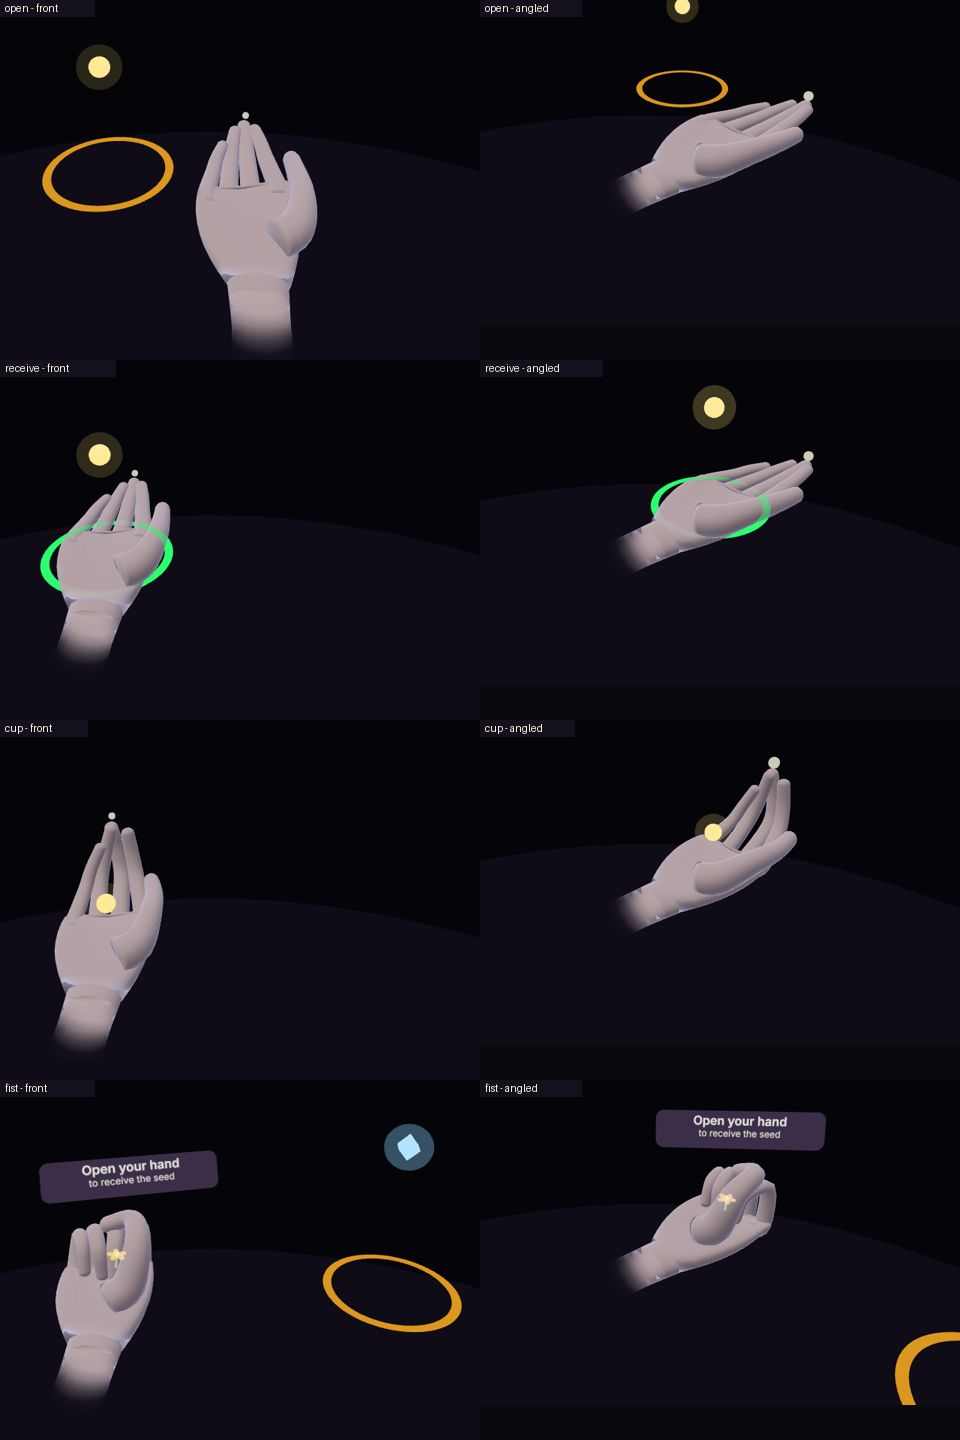
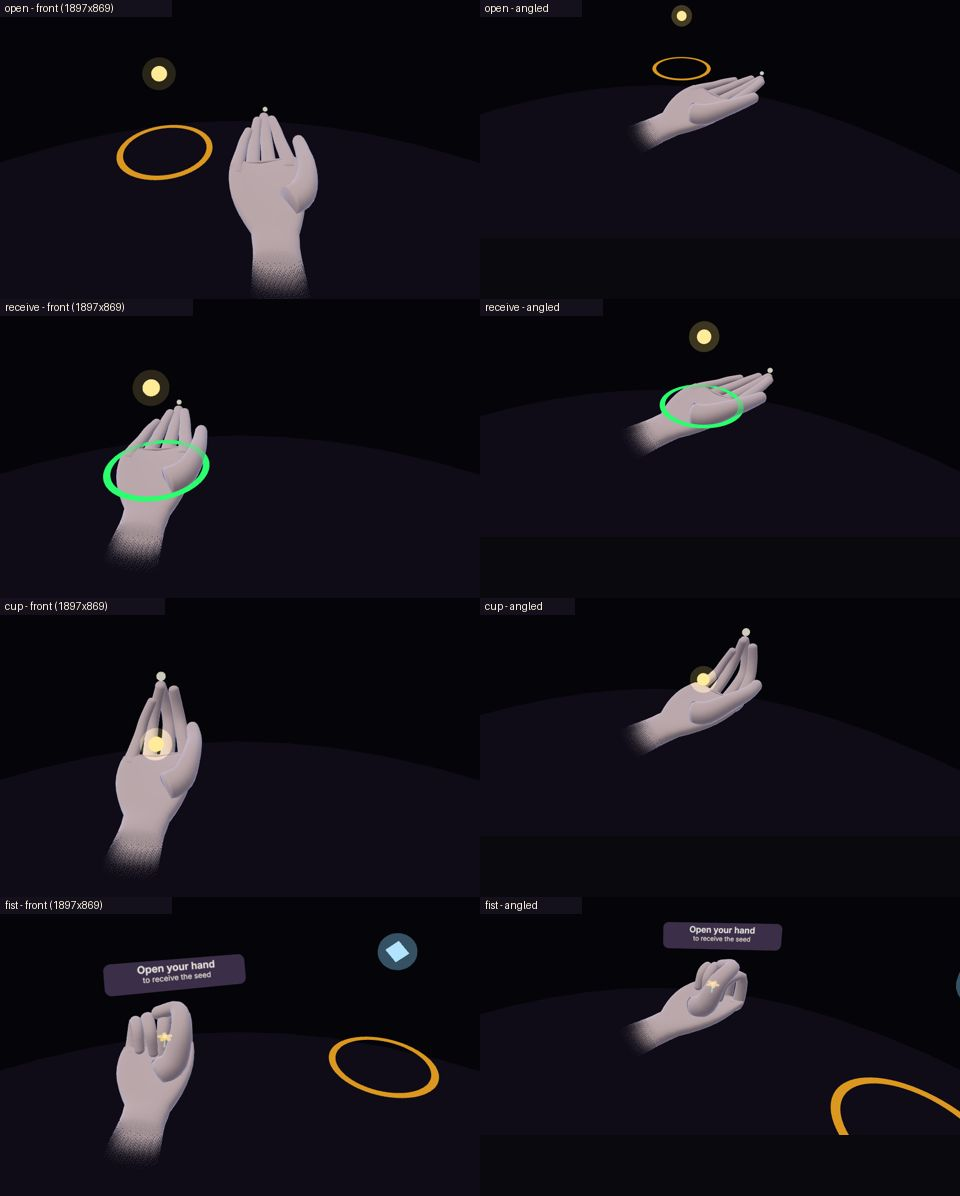
Laptop hand: hide IWSDK's occluder hand, opaque one-piece mesh, panel on screen
Real-browser review showed a black palm, detached fingertips and a floating
wrist cuff. Cause: IWSDK's own hand visual (white outline + invisible
depth-writing occluder hand, loaded from the WebXR input-profiles CDN) drew
over the emulated hand and hid the laptop hand behind it. Sandboxed test
runs could not reach that CDN, so headless screenshots never showed it.

Laptop emulator (?emulate) only; Quest rendering and gameplay unchanged.
- Hide IWSDK's hand visual every frame in laptop mode (IWSDK re-shows it in
  its input update, which runs first); &iwsdkhand=1 keeps it to compare.
- Hand mesh is now opaque, one pass, ordinary depth test: no depth pre-pass,
  no reliance on two shader programs giving identical depth.
- Wrist and forearm are the palm's own surface continued past the wrist (no
  separate tube); the forearm end fades out with a fine screen-door dither.
- Help panel: page never scrolls (game keys cancelled before any await,
  overflow hidden) and the panel follows a pinch-zoomed visual viewport.
- test/hand-poses.mjs: PROFILES_DIR serves the input-profile files locally
  so IWSDK's hand loads as in a real browser; checks it is hidden and the
  help panel is fully inside the window, with desktop-style scrollbars.

Claude-Session: https://claude.ai/code/session_01XtXJNmCxJUcRp479Zfa6aL

diff --git a/src/hand-silhouette.ts b/src/hand-silhouette.ts
@@ -6,16 +6,19 @@
 // Shape: procedural, rebuilt from the tracked joints every frame, so it can
 // never drift from the positions the game uses for catching.
 //   - each finger and the thumb is ONE smooth tapered tube through its joints
-//     (Catmull-Rom), with a rounded fingertip; no gaps between segments
-//   - the palm is a closed, rounded "pillow" spanning wrist to knuckles, with a
-//     shallow hollow on the palm side; the finger roots start inside it
-//   - the wrist is an elliptical tube that narrows and fades out
-// Rendering: one geometry, two draw calls. A depth-only pass, then a colour
-// pass that only draws the front-most surface (depthFunc LessEqual), so
-// overlapping parts never add up into brighter patches. Shading is a soft
-// view-relative key light plus a restrained cool edge light.
-// Positions come straight from the tracked joints; the display size only
-// changes thickness, so the hand stays aligned with the ring and seed.
+//     (Catmull-Rom), with a rounded fingertip; its root is capped and starts
+//     inside the palm, so no gaps or holes
+//   - the palm is a closed, rounded "pillow" with a shallow hollow on the palm
+//     side; the same surface carries on past the wrist into the forearm (no
+//     separate wrist piece), and the forearm end fades into the floor colour
+// Rendering: one opaque mesh, one draw call, ordinary depth test. (An earlier
+// depth pre-pass + translucent colour pass relied on two shader programs
+// giving identical depth, which not every GPU driver guarantees.) Shading is a
+// soft view-relative key light plus a restrained cool edge light.
+// IWSDK's own hand visual (white outline + an invisible depth "occluder" hand,
+// meant for passthrough) is hidden in laptop mode by the system: it hid this
+// mesh in real browsers. Positions come straight from the tracked joints; the
+// display size only changes thickness.
 
 import {
   BufferAttribute,
@@ -24,7 +27,6 @@ import {
   DoubleSide,
   GreaterDepth,
   Group,
-  LessEqualDepth,
   type Material,
   Mesh,
   MeshBasicMaterial,
@@ -49,7 +51,7 @@ const THUMB = { chain: [17, 18, 19, 20], r: [0.0145, 0.0112, 0.0094, 0.0084] };
 export const SKIN_COLOR = '#b9a6a8'; // muted warm grey-rose: reads on the dark room, lets seeds pop
 const SHADOW_COLOR = '#3f3446';
 const RIM_COLOR = '#b8c8ff';
-export const SILHOUETTE_OPACITY = 0.96;
+const FADE_TO = '#221e2b'; // the floor colour: the forearm fades toward it
 const DEBUG_OPACITY = 0.3; // &debug=1: see the skeleton through the hand
 
 // Tessellation (per hand ~1.4k vertices, ~2.6k triangles).
@@ -58,8 +60,11 @@ const PER_SEG = 4; // samples per joint-to-joint segment
 const CAP = 4; // rings in a fingertip cap
 const PALM_AROUND = 20; // around the palm cross-section
 const PALM_ROWS = 9; // wrist -> knuckles
-const WRIST_RINGS = 7;
-const WRIST_SIDES = 16;
+/** Rows of the same surface continued past the wrist into the forearm (no separate cuff). */
+const FOREARM_V = [-0.62, -0.5, -0.38, -0.27, -0.17, -0.08];
+const ROWS = FOREARM_V.length + PALM_ROWS;
+/** Where along the hand each row sits: <0 forearm, 0 wrist, 1 knuckles (x wrist-to-knuckle length). */
+const ROW_V = [...FOREARM_V, ...Array.from({ length: PALM_ROWS }, (_, r) => r / (PALM_ROWS - 1))];
 
 // Palm proportions (m).
 const PALM_FRONT = 0.0108; // palm-side half thickness (skin sits ~1 cm out, where the seed rests)
@@ -67,8 +72,8 @@ const PALM_BACK = 0.0092; // back-of-hand half thickness
 const PALM_HOLLOW = 0.0018; // shallow dip in the middle of the palm
 const KNUCKLE_EDGE = 0.45; // palm edge reaches this far past the outer knuckles (x knuckle spacing)
 const WRIST_HALF_W = 0.022; // half width of the wrist where it meets the palm
+const WRIST_T = 0.0118; // wrist / forearm half thickness
 
-/** Shared by the depth and colour passes so their depths match exactly. */
 const VERTEX = /* glsl */ `
   attribute float alpha;
   varying vec3 vN;
@@ -102,7 +107,6 @@ export class HandSilhouette {
   private colorMat: ShaderMaterial;
   private fingerTubes: Tube[] = [];
   private thumbTube!: Tube;
-  private wristTube!: Tube;
   private palmStart = 0;
   private palmCapStart = 0;
   // hand frame
@@ -154,13 +158,12 @@ export class HandSilhouette {
     const fingerRings = 4 * PER_SEG + 1 + CAP; // 1 lead-in segment + 3 bones
     for (let f = 0; f < FINGERS.length; f++) this.fingerTubes.push(tube(fingerRings, SIDES, true, true));
     this.thumbTube = tube(fingerRings, SIDES, true, true);
-    this.wristTube = tube(WRIST_RINGS, WRIST_SIDES, false);
     this.palmStart = v;
-    tube(PALM_ROWS, PALM_AROUND, false);
+    tube(ROWS, PALM_AROUND, false); // forearm + wrist + palm: one continuous surface
     // close both palm ends with fans
     this.palmCapStart = v;
     const p0 = this.palmStart;
-    const pl = this.palmStart + (PALM_ROWS - 1) * PALM_AROUND;
+    const pl = this.palmStart + (ROWS - 1) * PALM_AROUND;
     for (let s = 0; s < PALM_AROUND; s++) {
       index.push(p0 + ((s + 1) % PALM_AROUND), p0 + s, v);
       index.push(pl + s, pl + ((s + 1) % PALM_AROUND), v + 1);
@@ -169,12 +172,12 @@ export class HandSilhouette {
 
     this.pos = new Float32Array(v * 3);
     const alpha = new Float32Array(v).fill(1);
-    // wrist: opaque where it meets the palm, fading over its last part
-    for (let r = 0; r < WRIST_RINGS; r++) {
-      const k = r / (WRIST_RINGS - 1);
-      const a = k < 0.3 ? 1 : Math.max(0, 1 - (k - 0.3) / 0.6);
-      for (let s = 0; s < WRIST_SIDES; s++) alpha[this.wristTube.start + r * WRIST_SIDES + s] = a * a * (3 - 2 * a);
+    // forearm: full colour up to just below the wrist, then fading into the floor
+    for (let r = 0; r < ROWS; r++) {
+      const a = Math.min(1, Math.max(0, (ROW_V[r] + 0.62) / 0.4));
+      for (let q = 0; q < PALM_AROUND; q++) alpha[this.palmStart + r * PALM_AROUND + q] = a * a * (3 - 2 * a);
     }
+    alpha[this.palmCapStart] = 0; // forearm end cap
     this.geo.setAttribute('position', new BufferAttribute(this.pos, 3));
     this.nrmArr = new Float32Array(v * 3);
     this.idx = Uint32Array.from(index);
@@ -187,13 +190,15 @@ export class HandSilhouette {
         uBase: { value: new Color(SKIN_COLOR) },
         uShadow: { value: new Color(SHADOW_COLOR) },
         uRim: { value: new Color(RIM_COLOR) },
-        uOpacity: { value: debug ? DEBUG_OPACITY : SILHOUETTE_OPACITY },
+        uFadeTo: { value: new Color(FADE_TO) },
+        uOpacity: { value: debug ? DEBUG_OPACITY : 1 },
       },
       vertexShader: VERTEX,
       fragmentShader: /* glsl */ `
         uniform vec3 uBase;
         uniform vec3 uShadow;
         uniform vec3 uRim;
+        uniform vec3 uFadeTo;
         uniform float uOpacity;
         varying vec3 vN;
         varying vec3 vV;
@@ -211,35 +216,25 @@ export class HandSilhouette {
           // restrained edge light so the curves read against the dark room
           float fres = pow(1.0 - clamp(dot(n, v), 0.0, 1.0), 2.6);
           col += uRim * fres * 0.32;
-          gl_FragColor = vec4(col, uOpacity * vA);
+          // forearm end: a fine screen-door fade (the mesh stays opaque, so it
+          // never depends on draw order), softened toward the floor colour
+          if (uOpacity >= 1.0) {
+            float n = fract(52.9829189 * fract(dot(gl_FragCoord.xy, vec2(0.06711056, 0.00583715))));
+            if (vA < n * 0.98 + 0.01) discard;
+          }
+          col = mix(uFadeTo, col, vA);
+          gl_FragColor = vec4(col, uOpacity * (uOpacity >= 1.0 ? 1.0 : vA));
           #include <colorspace_fragment>
         }`,
-      transparent: true,
-      depthWrite: false,
-      depthFunc: LessEqualDepth,
-      side: DoubleSide,
-    });
-    // depth pre-pass: only the solid part of the hand (not the fading wrist end)
-    const depthMat = new ShaderMaterial({
-      vertexShader: VERTEX, // identical program text: both passes land on the same depth
-      fragmentShader: /* glsl */ `
-        varying vec3 vN;
-        varying vec3 vV;
-        varying float vA;
-        void main() { if (vA < 0.98) discard; gl_FragColor = vec4(0.0); }`,
-      colorWrite: false,
-      depthWrite: true,
+      // Opaque, one pass, ordinary depth test: nothing here depends on two
+      // shader programs producing bit-identical depth (which some GPU drivers
+      // do not guarantee). Debug only: faint and see-through.
+      transparent: debug,
+      depthWrite: !debug,
       side: DoubleSide,
     });
     const color = new Mesh(this.geo, this.colorMat);
-    color.renderOrder = 21;
     color.frustumCulled = false;
-    if (!debug) {
-      const depth = new Mesh(this.geo, depthMat);
-      depth.renderOrder = 20;
-      depth.frustumCulled = false;
-      this.group.add(depth);
-    }
     this.group.add(color);
   }
 
@@ -256,7 +251,6 @@ export class HandSilhouette {
     for (let f = 0; f < FINGERS.length; f++) this.finger(at, FINGERS[f].chain, FINGERS[f].r, k, this.fingerTubes[f], false);
     this.finger(at, THUMB.chain, THUMB.r, k, this.thumbTube, true);
     this.palm(at, kp);
-    this.wrist(at, kp);
     (this.geo.getAttribute('position') as BufferAttribute).needsUpdate = true;
     this.normals();
   }
@@ -413,9 +407,15 @@ export class HandSilhouette {
     row[0].copy(row[1]).sub(row[2]).multiplyScalar(KNUCKLE_EDGE).add(row[1]);
     row[5].copy(row[4]).sub(row[3]).multiplyScalar(KNUCKLE_EDGE).add(row[4]);
     const halfK = row[0].distanceTo(row[5]) / 2;
+    const palmLen = Math.hypot(km.x - w.x, km.y - w.y, km.z - w.z);
+    const env0 = Math.pow(Math.sin(Math.PI * 0.3), 0.45);
     let v = this.palmStart;
-    for (let r = 0; r < PALM_ROWS; r++) {
-      const vr = r / (PALM_ROWS - 1); // 0 wrist .. 1 knuckles
+    for (let r = 0; r < ROWS; r++) {
+      const vr = ROW_V[r]; // <0 forearm, 0 wrist .. 1 knuckles
+      if (vr < 0) {
+        v = this.forearmRow(v, w, vr, palmLen, kp, env0);
+        continue;
+      }
       // end rows are thinner so the pillow rounds off
       const env = Math.pow(Math.sin(Math.PI * (0.3 + 0.62 * vr)), 0.45);
       // width grows quickly from the wrist, widest a little below the knuckles
@@ -452,7 +452,7 @@ export class HandSilhouette {
     // end caps: the centre of the first and last rows
     for (const [r, cap] of [
       [0, this.palmCapStart],
-      [PALM_ROWS - 1, this.palmCapStart + 1],
+      [ROWS - 1, this.palmCapStart + 1],
     ] as const) {
       this.v.set(0, 0, 0);
       const base = this.palmStart + r * PALM_AROUND;
@@ -466,20 +466,31 @@ export class HandSilhouette {
     }
   }
 
-  /** Wrist: an oval tube starting inside the heel of the palm, narrowing, fading out. */
-  private wrist(at: (i: number) => Vec3, kp: number): void {
-    const w = at(0);
-    let v = this.wristTube.start;
-    this.bvec.copy(this.side);
-    this.uvec.copy(this.nrm);
-    for (let r = 0; r < WRIST_RINGS; r++) {
-      const k = r / (WRIST_RINGS - 1);
-      const back = -0.004 + k * 0.056; // from just inside the palm heel to 5 cm down the arm
-      this.v.set(w.x, w.y, w.z).addScaledVector(this.fwd, -back).addScaledVector(this.nrm, -0.002);
-      const rw = (WRIST_HALF_W - 0.0005 - 0.003 * Math.min(1, k * 1.6)) * (0.9 + 0.1 * kp); // narrows into the forearm
-      const rt = (0.0112 + 0.0016 * k) * kp;
-      v = this.ring(v, this.v, rw, rt, WRIST_SIDES);
+  /**
+   * Wrist and forearm: the palm's own surface carried on past the wrist joint
+   * (same cross-section loop), easing from the flat palm heel into a rounder,
+   * slightly narrower wrist, so palm and wrist are one shape with no seam.
+   */
+  private forearmRow(v: number, w: Vec3, vr: number, palmLen: number, kp: number, env0: number): number {
+    const s = Math.min(1, -vr / 0.2);
+    const blend = s * s * (3 - 2 * s); // 0 at the wrist joint, 1 a little way down the arm
+    const hw = WRIST_HALF_W * (1 - 0.07 * blend) + 0.0025 * Math.max(0, (-vr - 0.25) / 0.37);
+    const tf = PALM_FRONT * env0 * kp + (WRIST_T * kp - PALM_FRONT * env0 * kp) * blend;
+    const tb = PALM_BACK * env0 * kp + (WRIST_T * kp - PALM_BACK * env0 * kp) * blend;
+    const ex = 0.55 + 0.25 * blend; // flat palm heel -> rounder wrist
+    for (let q = 0; q < PALM_AROUND; q++) {
+      const ang = (q / PALM_AROUND) * Math.PI * 2;
+      const ca = Math.cos(ang);
+      const sa = Math.sin(ang);
+      const a = Math.sign(ca) * Math.pow(Math.abs(ca), ex);
+      const h = sa >= 0 ? tf * Math.pow(sa, 0.8) : -tb * Math.pow(-sa, 0.8);
+      this.v.set(w.x, w.y, w.z)
+        .addScaledVector(this.fwd, vr * palmLen - 0.002)
+        .addScaledVector(this.side, a * hw)
+        .addScaledVector(this.nrm, h);
+      this.put(v++, this.v);
     }
+    return v;
   }
 }
 

diff --git a/src/palmful-system.ts b/src/palmful-system.ts
@@ -99,6 +99,8 @@ interface HandTrack {
 }
 /** Laptop emulator only: draw a dark room into the XR view (never on a Quest). */
 const EMULATED_VIEW = PARAMS.has('emulate');
+/** Laptop diagnosis only: keep IWSDK's own hand outline/occluder visible (&iwsdkhand=1). */
+const KEEP_IWSDK_HAND = PARAMS.has('iwsdkhand');
 /** Cue colours, chosen to stay distinct on dark backgrounds and in passthrough. */
 const CUE = { ready: '#2bff6e', waiting: '#ffb020', miss: '#ff3b3b' };
 const FLASH_S = 1.5;
@@ -217,6 +219,8 @@ declare global {
       freeze: (on: boolean) => string;
       /** laptop view: is the hand silhouette drawn, and the bright bones? */
       silhouette: () => { silhouette: boolean; bones: boolean };
+      /** laptop view: IWSDK's own hand visual per side (loaded from the input-profiles CDN; hidden in laptop mode) */
+      iwsdkHands: () => Record<string, { loaded: boolean; visible: boolean; meshes: number; at: number[]; inScene: boolean }>;
       twoHands: () => {
         enabled: boolean;
         engaged: string | null;
@@ -449,6 +453,19 @@ export class PalmfulSystem extends createSystem({}) {
         if (EMULATED_VIEW) this.cueHold = on ? 'frozen' : 'off';
         return this.cueHold;
       },
+      iwsdkHands: () =>
+        Object.fromEntries(
+          SIDES.map((side) => {
+            const v = this.world.input.xr.visualAdapters.hand[side].visual;
+            let meshes = 0;
+            const at = new Vector3();
+            v?.model.traverse((o) => {
+              if ((o as Mesh).isMesh) meshes++;
+            });
+            v?.model.getWorldPosition(at);
+            return [side, { loaded: !!v, visible: !!v?.model.visible, meshes, at: [+at.x.toFixed(3), +at.y.toFixed(3), +at.z.toFixed(3)], inScene: !!v?.model.parent }];
+          }),
+        ),
       silhouette: () => ({
         silhouette: !!(this.silhouette?.group.visible || this.tracks?.left.silhouette?.group.visible),
         bones: this.boneMeshes.some((b) => b.visible),
@@ -794,7 +811,26 @@ export class PalmfulSystem extends createSystem({}) {
     this.tracked = chosen !== null;
   }
 
+  /**
+   * Laptop emulator only: hide IWSDK's own hand visual (a white outline plus an
+   * invisible, depth-writing "occluder" hand meant for passthrough). Over the
+   * laptop hand model it hid most of the palm (black, with detached fingertips
+   * and a floating wrist) in real browsers. IWSDK re-shows it every frame in
+   * its input update (priority -4, before this system), so it is hidden here
+   * every frame, before rendering. Never runs on a headset. &iwsdkhand=1 keeps
+   * it, to compare.
+   */
+  private hideIwsdkHandVisuals(): void {
+    if (!EMULATED_VIEW || KEEP_IWSDK_HAND) return;
+    const hands = this.world.input.xr.visualAdapters.hand;
+    for (const side of SIDES) {
+      const visual = hands[side].visual;
+      if (visual) visual.model.visible = false;
+    }
+  }
+
   private renderJointDots(): void {
+    this.hideIwsdkHandVisuals();
     if (!SKELETON) return;
     if (this.tracks) {
       for (const t of [this.tracks.right, this.tracks.left]) this.drawSkeleton(t.joints, t.tracked, t.dots, t.bones, t.silhouette, t.side === 'left');

diff --git a/src/laptop-emulator.ts b/src/laptop-emulator.ts
@@ -151,6 +151,26 @@ export async function installLaptopEmulator(): Promise<void> {
     '</div>' +
     '<code id="laptop-status" style="opacity:.8"></code>';
   document.body.appendChild(panel);
+  // Keep the help panel fully on screen: the page itself never scrolls in
+  // laptop mode (arrow keys and Space are game keys), and if the browser's
+  // visible area is shifted (touchpad pinch-zoom), the panel follows it.
+  document.documentElement.style.overflow = 'hidden';
+  document.body.style.overflow = 'hidden';
+  document.body.style.margin = '0';
+  window.addEventListener('scroll', () => {
+    if (window.scrollX || window.scrollY) window.scrollTo(0, 0);
+  });
+  const vv = window.visualViewport;
+  if (vv) {
+    const follow = () => {
+      // offsets are 0 unless pinch-zoomed; keep the panel's bottom-left corner in view
+      const dx = vv.offsetLeft;
+      const dy = vv.offsetTop + vv.height - window.innerHeight;
+      panel.style.transform = dx || dy ? `translate(${dx}px, ${dy}px)` : '';
+    };
+    vv.addEventListener('resize', follow);
+    vv.addEventListener('scroll', follow);
+  }
   const status = panel.querySelector('#laptop-status') as HTMLElement;
   const startBtn = panel.querySelector('#laptop-start') as HTMLButtonElement;
   const helpBody = panel.querySelector('#laptop-help-body') as HTMLElement;
@@ -227,6 +247,8 @@ export async function installLaptopEmulator(): Promise<void> {
 
   window.addEventListener('keydown', async (e) => {
     if (!started) return;
+    // stop the browser scrolling the page on game keys, before any await
+    if (e.key === ' ' || e.key.startsWith('Arrow')) e.preventDefault();
     let handled = true;
     if (CATCH) {
       switch (e.key) {

diff --git a/docs/PROJECT_RECORD.md b/docs/PROJECT_RECORD.md
@@ -126,7 +126,12 @@ Keep this file current; it is how work continues across sessions.
   - Each finger and the thumb is one smooth tapered tube (Catmull-Rom through its joints) with a rounded tip; the palm is a closed, rounded pillow from wrist to knuckles with a shallow hollow on the palm side; the wrist is an oval tube that narrows and fades out over 5 cm.
   - Finger and thumb roots are capped and start inside the palm, so no seams or dark holes. The palm's skin sits about 1 cm out from the joints, where the game rests the seed (`center + normal × 0.8 cm`), so a resting seed sits on the visible palm.
   - Shading: soft view-relative key light, a muted warm grey-rose skin (#b9a6a8) that reads on the dark room without outshining seeds, and a restrained cool edge light. No glow, no texture.
-  - Still one geometry and 2 draw calls per hand (depth pre-pass + colour pass, identical vertex program so they never z-fight). About 1.4k vertices; normals are computed in place without per-frame allocation.
+  - One opaque mesh, one draw call per hand, ordinary depth test. About 1.4k vertices; normals are computed in place without per-frame allocation.
+- **Real-browser defect found in review (fixed):** in a real desktop browser the palm was black, the fingertips looked detached and the wrist floated as a separate cuff. Cause: IWSDK draws its own hand visual over every tracked hand, a white outline plus an invisible depth-writing "occluder" hand (meant for passthrough). It loads from the WebXR input-profiles CDN, which the sandboxed test runs could not reach, so headless screenshots never showed it. In real browsers the occluder hid the laptop hand wherever it sat behind it. This was also the cause of the black palm in the PR #4 silhouette.
+  - Fix (laptop only): the system hides IWSDK's hand visual every frame in `?emulate` (IWSDK re-shows it in its input update, which runs first). `&iwsdkhand=1` keeps it, for comparison. Quest is unchanged: the outline and occluder still draw over real hands there.
+  - Hardening: the laptop hand is now opaque, one pass (no depth pre-pass, no reliance on two shader programs giving identical depth). The wrist and forearm are the palm's own surface carried on past the wrist (no separate tube); the forearm end fades out with a fine screen-door dither toward the floor colour.
+  - `test/hand-poses.mjs` with `PROFILES_DIR=<unpacked @webxr-input-profiles/assets>/dist/profiles` serves those CDN files locally, so the run loads IWSDK's hand like a real browser and checks that it is hidden. Headless SwiftShader does not draw IWSDK's skinned hand even when loaded, so the visual proof of this fix is a real-browser check.
+- **Help panel:** the page no longer scrolls in laptop mode (arrow keys and Space are cancelled before any async work; html/body overflow hidden), and the panel follows the visible area if the browser is pinch-zoomed. The pose test now checks the panel is fully inside the window, with desktop-style scrollbars on.
 - **Joint dots** are hidden in normal laptop play. `&debug=1` / `?skeleton=1` shows the full skeleton through a faint (30 %) hand.
 - **See-through cues:** where the hand covers the landing ring, a seed or a flower (for example a flower inside a fist), a faint copy is drawn on top (reversed depth test), so cues never vanish.
 - **Pose blending:** the laptop keys now use IWER's `set_hand_pose` with `duration: 0.22` (minimum-jerk). The game reads the blended joints, so drawing and catch logic stay in step.
